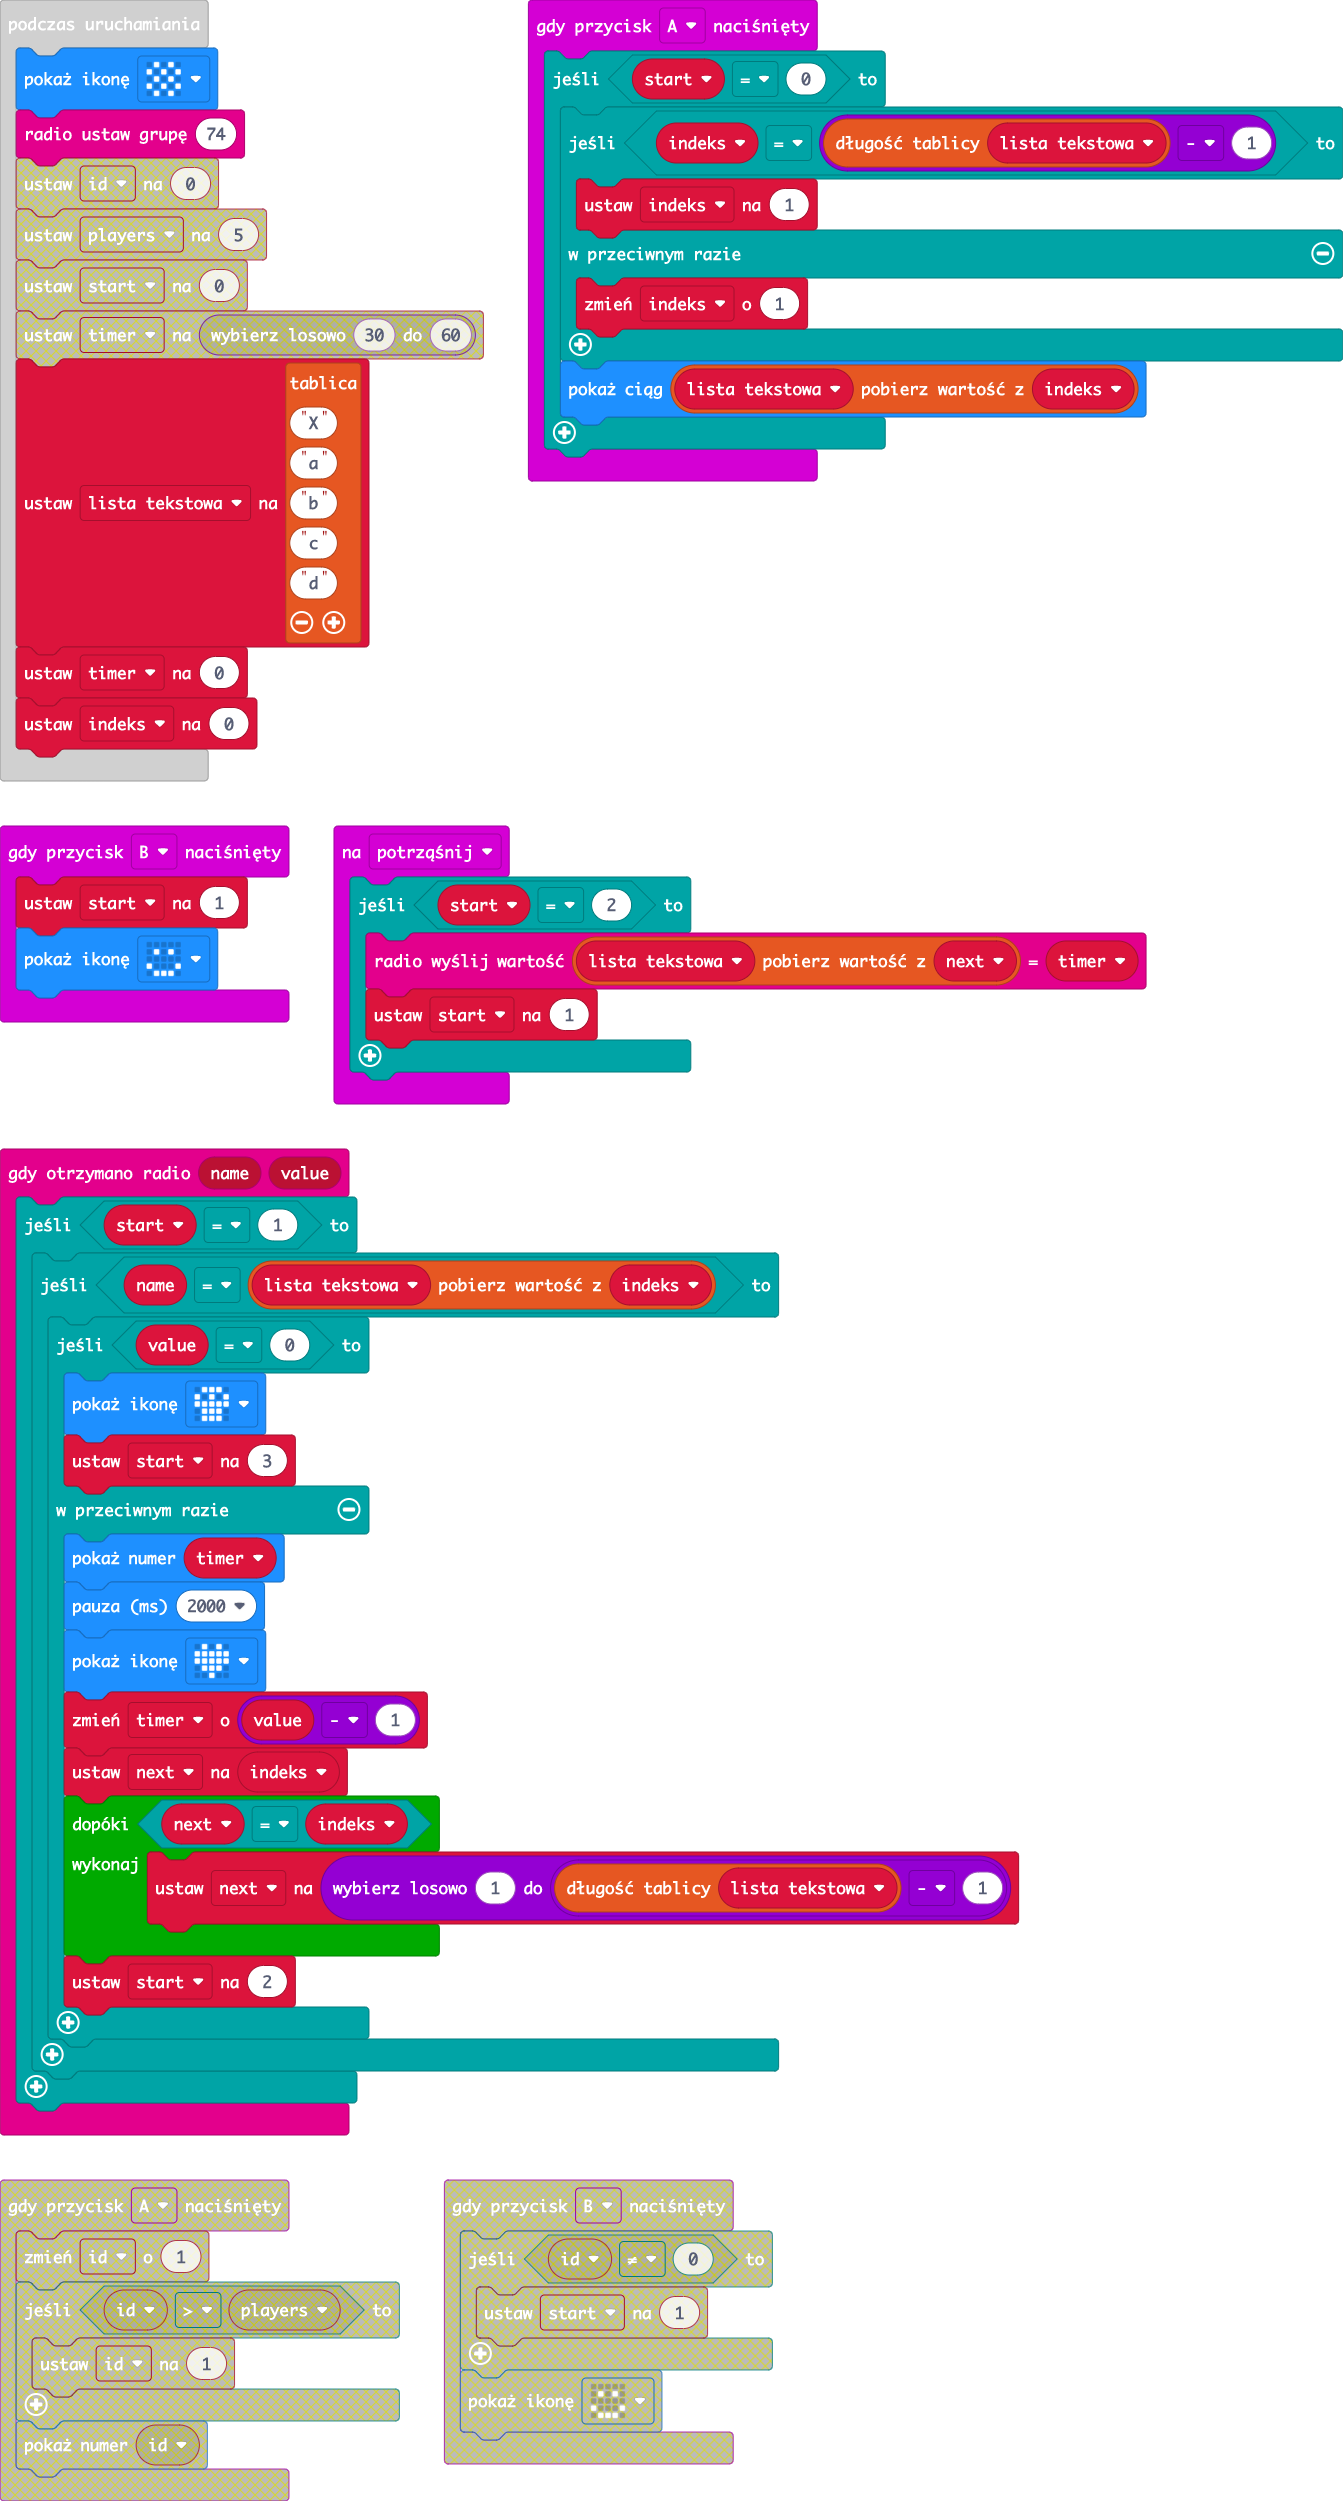
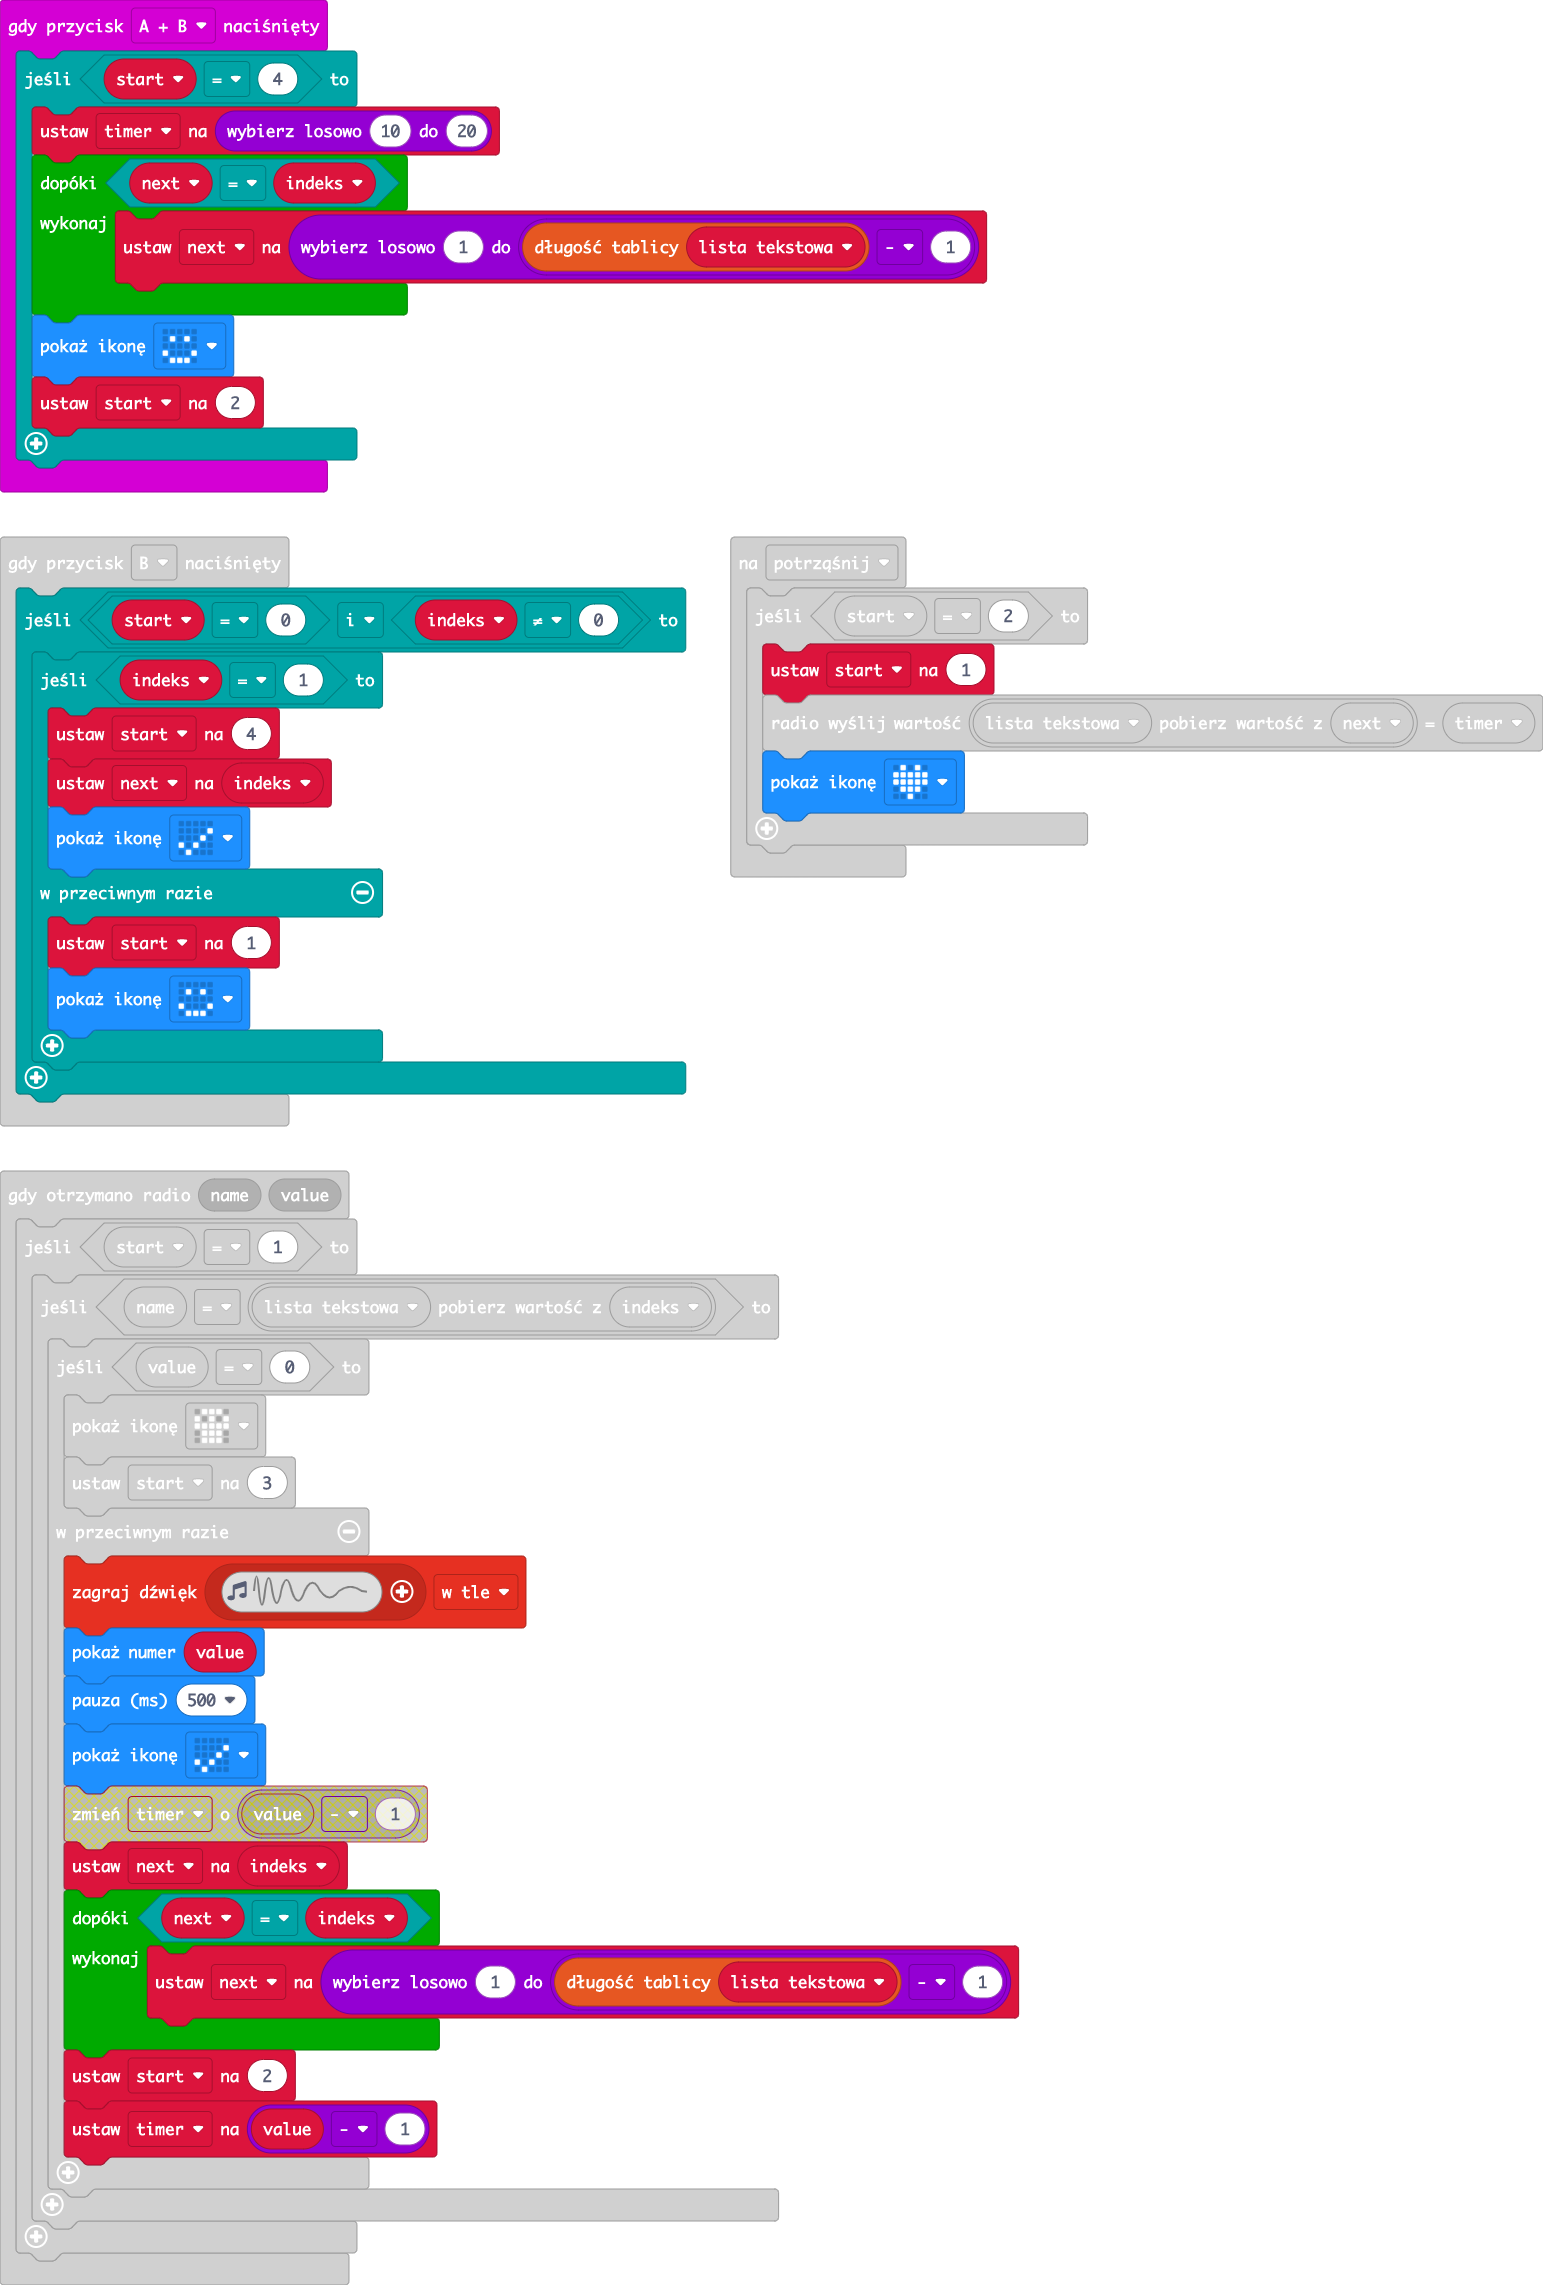
Aktualizacja main.blocks, main.ts

diff --git a/main.ts b/main.ts
@@ -8,9 +8,27 @@ input.onButtonPressed(Button.A, function () {
         basic.showString("" + (lista_tekstowa[indeks]))
     }
 })
+input.onButtonPressed(Button.AB, function () {
+    if (start == 4) {
+        timer = randint(10, 20)
+        while (next == indeks) {
+            next = randint(1, lista_tekstowa.length - 1)
+        }
+        basic.showIcon(IconNames.Happy)
+        start = 2
+    }
+})
 input.onButtonPressed(Button.B, function () {
-    start = 1
-    basic.showIcon(IconNames.Happy)
+    if (start == 0 && indeks != 0) {
+        if (indeks == 1) {
+            start = 4
+            next = indeks
+            basic.showIcon(IconNames.Yes)
+        } else {
+            start = 1
+            basic.showIcon(IconNames.Happy)
+        }
+    }
 })
 radio.onReceivedValue(function (name, value) {
     if (start == 1) {
@@ -19,10 +37,11 @@ radio.onReceivedValue(function (name, value) {
                 basic.showIcon(IconNames.Skull)
                 start = 3
             } else {
-                basic.showNumber(timer)
-                basic.pause(2000)
-                basic.showIcon(IconNames.Heart)
-                timer += value - 1
+                music.playSoundEffect(music.createSoundEffect(WaveShape.Sine, 5000, 0, 255, 0, 500, SoundExpressionEffect.None, InterpolationCurve.Linear), SoundExpressionPlayMode.InBackground)
+                basic.showNumber(value)
+                basic.pause(500)
+                basic.showIcon(IconNames.Yes)
+                timer = value - 1
                 next = indeks
                 while (next == indeks) {
                     next = randint(1, lista_tekstowa.length - 1)
@@ -34,8 +53,9 @@ radio.onReceivedValue(function (name, value) {
 })
 input.onGesture(Gesture.Shake, function () {
     if (start == 2) {
-        radio.sendValue(lista_tekstowa[next], timer)
         start = 1
+        radio.sendValue(lista_tekstowa[next], timer)
+        basic.showIcon(IconNames.Heart)
     }
 })
 let next = 0
